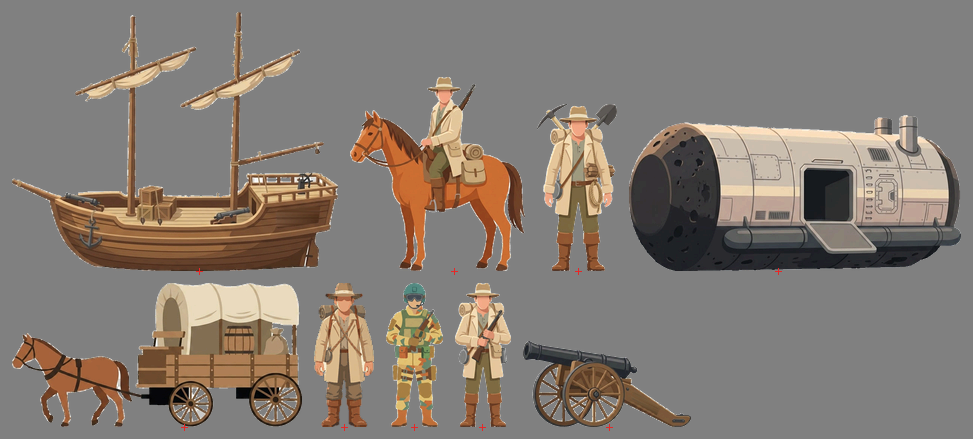
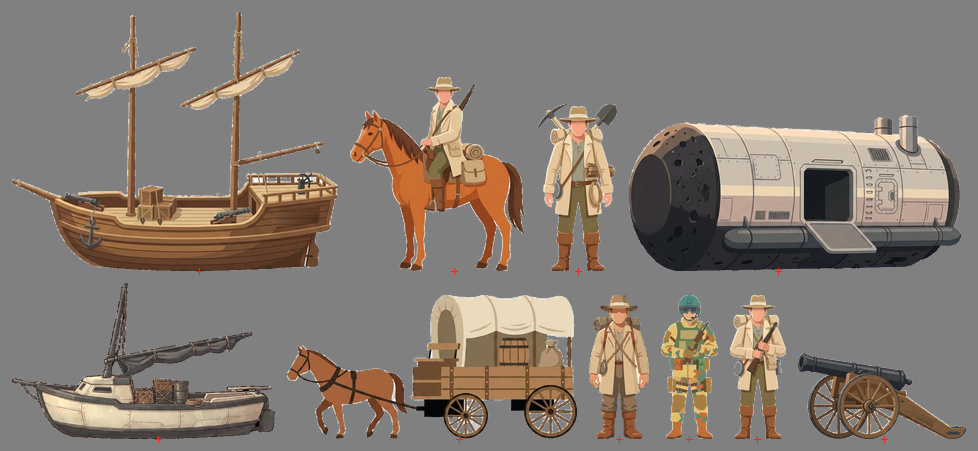
The lighter is the lander's boat, and a modern carpenter's shop
New drawings: the lighter built from the lander's panels, and the carpenter's shop in square cut
timber with a lander panel on its roof, drawn first in every settlement. The beached lander is wired
for and held back until a drawing on flat sand. A GrabCut keyer for boards colour cannot key, and both
sheets stored as indexed pngs, 64 and 81 kB. DECISIONS.md 201.

Claude-Session: https://claude.ai/code/session_01UnwF8UyZDWb3Ujp9A9GwjM

diff --git a/src/render/sprites.ts b/src/render/sprites.ts
@@ -52,14 +52,19 @@ export function pieceCount(pop: number): number {
 
 const INDUSTRY = ['carpenter', 'smelter', 'toolworks', 'armoury', 'linenWorks', 'ropeWorks', 'dyeWorks', 'still', 'finishing'] as const
 
-/** Which buildings a settlement shows, in the order they matter, from what it holds: a dwelling
- *  always, the hall where there is one, the frame of whatever is being built, and then the barn,
+/** Which buildings a settlement shows, in the order they matter, from what it holds: the beached
+ *  lander where one founded it, the carpenter's shop, a dwelling always, the hall where there is one, the frame of whatever is being built, and then the barn,
  *  the steading and the yard for what the place is for. A large place lives in a longhouse rather
  *  than a cabin. Only the first few of these are drawn; see pieceCount. */
-export function piecesFor(st: Settlement, pop: number): string[] {
+export function piecesFor(st: Settlement, pop: number, landing = false): string[] {
   const b = st.buildings
   const out: string[] = []
   const want = (name: string) => { if (!out.includes(name) && SETTLEMENT_ATLAS.pieces[name]) out.push(name) }
+  // where a lander beached and founded the place, the lander first: the first metal in the colony
+  // is the thing that brought you (setting brief section 7, DECISIONS.md 201)
+  if (landing) want('lander-beached')
+  // the carpenter's shop every settlement begins with, then where people live
+  if (b.carpenter > 0) want('carpenter')
   want(pop >= SPRITE.longhouseAt ? 'longhouse' : 'lodge')
   if (b.meeting > 0 || b.press > 0 || b.school > 0) want('hall')
   if (st.building) want('frame')
@@ -67,7 +72,7 @@ export function piecesFor(st: Settlement, pop: number): string[] {
   if (b.stable > 0 || st.orders.purpose === 'horses') want('steading')
   if (INDUSTRY.some(line => b[line] > 0) || b.wharf > 0 || b.works > 0) want('yard')
   // and the rest of the kit, for a place that has outgrown what it holds
-  for (const name of ['barn', 'yard', 'steading', 'lodge', 'hall']) want(name)
+  for (const name of ['barn', 'yard', 'steading', 'lodge', 'hall', 'carpenter']) want(name)
   return out
 }
 
@@ -81,9 +86,10 @@ export function layOut(
   heightAt: (x: number, z: number) => number,
   onLand: (x: number, z: number) => boolean,
   sheet: number,
+  landing = false,
 ): Billboard[] {
   const n = pieceCount(pop)
-  const names = piecesFor(st, pop).slice(0, n)
+  const names = piecesFor(st, pop, landing).slice(0, n)
   const scale = sheetScale()
   const id = st.id
   // the lattice: four places around the middle, the far ones first so the hall stands behind. A

diff --git a/src/render/look.ts b/src/render/look.ts
@@ -433,7 +433,6 @@ export const UNIT_SPRITE = {
     siegeTrain: 'battery',
     damagedSiegeTrain: 'battery',
     damagedBattery: 'battery',
-    lighter: 'trader',
     raider: 'trader',
     cutter: 'trader',
     companyShip: 'trader',
@@ -444,14 +443,14 @@ export const UNIT_SPRITE = {
    *  manifest carries (personPx, how many pixels a person is in that piece), so a piece stored at
    *  a lower resolution still stands at its own size. The table itself, in people, is in
    *  scripts/extract-sprites.py where the pixels are made: person 1, outrider 1.35, hauler 1 and
-   *  about 2.4 long, battery 0.6, trader 3 to the masthead, lander 1.8. */
+   *  about 2.4 long, battery 0.6, trader 3 to the masthead, lander 1.8, lighter 1.8 to the masthead. */
   tileHeight: 0.52,
   /** For a sheet cut before manifests carried a person: how many pixels tall a person was. */
   referenceHeight: 144,
   /** What a kind that borrows another's drawing is drawn at, as a share of the drawing's own size.
    *  The smaller hulls borrow the trader's; the Company's horse borrows the regular's at full size
    *  and is told from it by its ring alone. */
-  scale: { lighter: 0.6, raider: 0.85, cutter: 0.95 } as Partial<Record<UnitKind, number>>,
+  scale: { raider: 0.85, cutter: 0.95 } as Partial<Record<UnitKind, number>>,
   /** What damage does to a drawing: darker, drained toward grey, and knocked a few degrees askew on
    *  the ground. Degrees, turned clockwise seen from above. */
   damaged: { darken: 0.72, desaturate: 0.55, tiltDeg: 7 },

diff --git a/src/render/settlement-atlas.ts b/src/render/settlement-atlas.ts
@@ -8,14 +8,15 @@ import type { AtlasManifest } from './billboards'
 
 export const SETTLEMENT_ATLAS: AtlasManifest = {
   texture: 'settlement-early.png',
-  size: [1024, 398],
+  size: [1024, 401],
   pieces: {
-    barn: { x: 4, y: 228, w: 219, h: 166, anchorX: 85.1, anchorY: 156.3 },
-    frame: { x: 227, y: 228, w: 220, h: 155, anchorX: 122.3, anchorY: 152.4 },
+    barn: { x: 227, y: 228, w: 219, h: 166, anchorX: 85.1, anchorY: 156.3 },
+    carpenter: { x: 402, y: 4, w: 248, h: 185, anchorX: 147.8, anchorY: 175.2 },
+    frame: { x: 450, y: 228, w: 220, h: 155, anchorX: 122.3, anchorY: 152.4 },
     hall: { x: 4, y: 4, w: 170, h: 220, anchorX: 63.3, anchorY: 213.8 },
     lodge: { x: 178, y: 4, w: 220, h: 195, anchorX: 134.4, anchorY: 175.1 },
-    longhouse: { x: 402, y: 4, w: 219, h: 175, anchorX: 109.3, anchorY: 172.3 },
-    steading: { x: 451, y: 228, w: 220, h: 155, anchorX: 83.0, anchorY: 139.4 },
-    yard: { x: 625, y: 4, w: 219, h: 169, anchorX: 83.0, anchorY: 159.3 },
+    longhouse: { x: 654, y: 4, w: 219, h: 175, anchorX: 109.3, anchorY: 172.3 },
+    steading: { x: 674, y: 228, w: 220, h: 155, anchorX: 83.0, anchorY: 139.4 },
+    yard: { x: 4, y: 228, w: 219, h: 169, anchorX: 83.0, anchorY: 159.3 },
   },
 }

diff --git a/src/ui/ring.ts b/src/ui/ring.ts
@@ -72,7 +72,7 @@ function keep(key: string, canvas: HTMLCanvasElement) {
  *  the props are laid again. */
 function pictureKey(app: App, s: GameState, st: Settlement, px: number): string {
   const pop = st.colonists.length
-  const pieces = piecesFor(st, pop).slice(0, pieceCount(pop)).join('+')
+  const pieces = piecesFor(st, pop, s.charters[st.owner]?.landing === st.tile).slice(0, pieceCount(pop)).join('+')
   const w = s.world.width, hh = s.world.height
   const seen = new Set<number>([st.tile])
   for (const n of neighbours8(w, hh, st.tile)) { seen.add(n); for (const m of neighbours8(w, hh, n)) seen.add(m) }

diff --git a/src/render/settlements.ts b/src/render/settlements.ts
@@ -130,7 +130,7 @@ export function buildSettlements(s: GameState, heightAt: (x: number, z: number) 
     // the banner below is the whole settlement, per art brief section 10
     const drawn = era === 0
     if (drawn) {
-      for (const place of layOut(st, pop, cx, cz, heightAt, onLand, sheet)) {
+      for (const place of layOut(st, pop, cx, cz, heightAt, onLand, sheet, s.charters[st.owner]?.landing === st.tile)) {
         place.tag = { kind: 'settlement', id: st.id }
         billboards.push(place)
         // one group per settlement: the buildings shade together, not one on top of another

diff --git a/src/ui/pictures.ts b/src/ui/pictures.ts
@@ -77,7 +77,7 @@ export function goodMark(g: GoodId | 'frame' | 'grievance', size: IconSize = 'in
  *  carries the difference. The palisade borrows the steading for its fence, and the works borrow the
  *  workshops they would grow from. */
 export const BUILDING_PICTURE: Record<BuildingLine, string> = {
-  carpenter: 'lodge',
+  carpenter: 'carpenter',
   smelter: 'yard', toolworks: 'yard', armoury: 'yard', finishing: 'yard',
   linenWorks: 'longhouse', ropeWorks: 'longhouse', dyeWorks: 'longhouse', still: 'longhouse',
   meeting: 'hall', press: 'hall', school: 'hall', agentOffice: 'hall',

diff --git a/scripts/extract-sprites.py b/scripts/extract-sprites.py
@@ -285,7 +285,8 @@ def cut(job):
     # does for a figure with a tool held over its head
     ref_top, ref_bottom = job.get('reference', (y0, y1))
     ref_px = max(1, ref_bottom - ref_top)
-    scale = job['people'] * PERSON_PX * job.get('resolution', 1.0) / ref_px
+    # a building is cut to a height in the settlement sheet's pixels rather than in people
+    scale = job['px'] / ref_px if 'px' in job else job['people'] * PERSON_PX * job.get('resolution', 1.0) / ref_px
     out_w, out_h = max(1, int(round((x1 - x0) * scale))), max(1, int(round((y1 - y0) * scale)))
 
     # the alpha, soft by under a pixel at the source, then both down together
@@ -310,12 +311,13 @@ def cut(job):
     final[..., :3] = (np.clip(rgb, 0, 255) // step * step + step // 2).astype(np.uint8)
     final[..., 3] = np.clip(small[..., 3], 0, 255).astype(np.uint8)
 
-    os.makedirs(OUT, exist_ok=True)
-    Image.fromarray(final).save(os.path.join(OUT, f'{name}.png'))
+    out_dir = job.get('out', OUT)
+    os.makedirs(out_dir, exist_ok=True)
+    Image.fromarray(final).save(os.path.join(out_dir, f'{name}.png'))
     entry = {
         'source': job['source'],
         'w': out_w, 'h': out_h,
-        'people': job['people'],
+        'people': job.get('people'),
         # how many pixels a standing person is in this piece: the sheet's person, less for a piece
         # stored at a lower resolution. The renderer sizes the piece from this, so a drawing that
         # stands taller than its subject, a figure with a pick over its head, stands taller on the map
@@ -360,7 +362,50 @@ UNITS = [
                  dict(rows=(615, 1024), dark=186.0, light=222.0, tint=(0, 5, 7), low=0.92, high=1.06, chroma=12)],
          smoke=True, resolution=0.6,
          waterline=640),
+    # the lighter, the boat the lander carried, built of the lander's own panels (DECISIONS.md 201).
+    # Drawn on a black and mid grey board that colour cannot key, so it is keyed first by
+    # scripts/key-board.py (lighter.jpg 3 137)
+    dict(name='lighter', source='lighter.png', people=1.8, facing='left', keyed=True,
+         resolution=0.6, waterline=712),
 ]
+
+# Buildings drawn one to a picture, cut to the early settlement sheet's scale (the cabin's wall is
+# seventy pixels, src/render/look.ts) and added to art/settlement-early.png by `buildings`. Each is
+# keyed first by scripts/key-board.py: carpenter.jpg 175 227.
+BUILDINGS_OUT = 'art/buildings'
+BUILDINGS = [
+    # the lander beached where it founded the first settlement, the first metal in the colony, is drawn
+    # for as 'lander-beached' (src/render/sprites.ts) and waits for a drawing on flat sand
+    # the carpenter's shop, square cut timber with a panel of the lander on its roof
+    dict(name='carpenter', source='../buildings/carpenter.png', px=185, out=BUILDINGS_OUT, keyed=True),
+]
+
+
+def add_buildings():
+    """Cut each building and lay it into art/settlement-early.png beside the seven drawn there, with
+    an entry in its manifest marked keyed, so scripts/clean-sprites.mjs leaves its pale panels alone."""
+    sheet = Image.open('art/settlement-early.png').convert('RGBA')
+    man = json.load(open('art/settlement-early.json'))
+    pieces = {k: v for k, v in man['pieces'].items() if not v.get('keyed')}
+    cut_pieces = []
+    for job in BUILDINGS:
+        cut(job)
+        cut_pieces.append((job['name'], Image.open(os.path.join(BUILDINGS_OUT, f"{job['name']}.png")).convert('RGBA')))
+    # the drawn sheet is kept as it was; the new pieces go in a row beneath it
+    base_h = max(v['y'] + v['h'] for v in pieces.values()) + 4
+    W = max(sheet.width, sum(im.width + 4 for _, im in cut_pieces) + 4)
+    H = base_h + max(im.height for _, im in cut_pieces) + 4
+    out = Image.new('RGBA', (W, H), (0, 0, 0, 0))
+    out.paste(sheet.crop((0, 0, sheet.width, base_h)), (0, 0))
+    x = 2
+    for name, im in cut_pieces:
+        out.paste(im, (x, base_h))
+        pieces[name] = {'x': x, 'y': base_h, 'w': im.width, 'h': im.height, 'keyed': True}
+        x += im.width + 4
+    out.save('art/settlement-early.png')
+    man['pieces'] = pieces
+    json.dump(man, open('art/settlement-early.json', 'w'), indent=1)
+    print(f'art/settlement-early.png: {W}x{H}, {len(pieces)} pieces')
 
 # The first era buildings came off their own board with an earlier form of this script, and the
 # committed art/settlement-early.png and .json are what the sheet was cut to by hand after it. This
@@ -419,6 +464,9 @@ if __name__ == '__main__':
     wanted = sys.argv[1:]
     if wanted == ['settlement']:
         cut_settlement(SETTLEMENT)
+        sys.exit(0)
+    if wanted == ['buildings']:
+        add_buildings()
         sys.exit(0)
     path = os.path.join(OUT, 'manifest.json')
     manifest = json.load(open(path)) if os.path.exists(path) else {}

diff --git a/scripts/key-board.py b/scripts/key-board.py
@@ -1,0 +1,93 @@
+#!/usr/bin/env python3
+# Keys a drawing off the checkerboard it was generated on, for the boards scripts/extract-sprites.py
+# cannot key by colour alone: two greys far apart (black and mid grey), squares not on one grid, and
+# a drawing with dark outlines and grey trim that a colour range would take with the board.
+#
+# The board's own squares reached from the picture's edge are the background for certain, and the
+# soft seams between squares a few pixels from them; anything with colour is the drawing for
+# certain; GrabCut decides the rest. Then what is left of the board is taken off: board coloured
+# pixels along the edge, peeled a pixel at a time, and board the drawing encloses (between a mast
+# and its ropes), found as a patch where both of the board's greys lie close together and nothing
+# has colour. Writes an rgba png the same size as the source, which the extraction job then takes
+# as already keyed.
+#
+# Run with:  python3 scripts/key-board.py SOURCE.jpg OUT.png DARK LIGHT
+#            DARK and LIGHT are the board's two greys, read off its corner squares.
+# Needs numpy, scipy and opencv (cv2).
+
+import sys
+
+import cv2
+import numpy as np
+from scipy import ndimage
+
+
+def key(path, greys, out):
+    a = cv2.imread(path).astype(np.float32)
+    lum = a.mean(axis=2)
+    chroma = a.max(axis=2) - a.min(axis=2)
+    neutral = chroma < 10
+    core = np.zeros(lum.shape, bool)
+    for g in greys:
+        core |= neutral & (np.abs(lum - g) < 12)
+    between = neutral & (lum >= min(greys) - 12) & (lum <= max(greys) + 12)
+    lbl, _ = ndimage.label(core)
+    edge = np.zeros_like(core)
+    edge[0, :] = edge[-1, :] = edge[:, 0] = edge[:, -1] = True
+    bg = np.isin(lbl, list(set(np.unique(lbl[edge & core])) - {0}))
+    for _ in range(4):
+        bg |= ndimage.binary_dilation(bg) & between
+    mask = np.full(lum.shape, cv2.GC_PR_FGD, np.uint8)
+    mask[bg] = cv2.GC_BGD
+    mask[between & ~bg] = cv2.GC_PR_BGD
+    mask[chroma > 25] = cv2.GC_FGD
+    cv2.grabCut(a.astype(np.uint8), mask, None, np.zeros((1, 65)), np.zeros((1, 65)), 6, cv2.GC_INIT_WITH_MASK)
+    fg = (mask == cv2.GC_FGD) | (mask == cv2.GC_PR_FGD)
+    # board along the edge, peeled off
+    boardish = np.zeros(lum.shape, bool)
+    for g in greys:
+        boardish |= (chroma < 16) & (np.abs(lum - g) < 26)
+    for _ in range(16):
+        touching = ndimage.binary_dilation(~fg) & fg & boardish
+        if not touching.any():
+            break
+        fg &= ~touching
+    # board the drawing encloses
+    n16 = chroma < 16
+    near = [n16 & (np.abs(lum - g) < 26) for g in greys]
+    fd = [ndimage.uniform_filter(m.astype(np.float32), 11) for m in near]
+    fn = ndimage.uniform_filter(n16.astype(np.float32), 11)
+    texture = ndimage.binary_dilation((fd[0] > 0.08) & (fd[1] > 0.08) & (fn > 0.75), iterations=3)
+    fg &= ~(texture & (near[0] | near[1]))
+    # and what is left in strips too narrow for that, between ropes: small patches of either grey,
+    # flat and colourless, each followed by any of the other grey it touches
+    flat = chroma < 10
+    for _ in range(3):
+        for g in greys:
+            square = fg & flat & (np.abs(lum - g) < 14)
+            sl, sn = ndimage.label(square)
+            if not sn:
+                continue
+            ss = ndimage.sum(square, sl, range(1, sn + 1))
+            small = np.isin(sl, [i + 1 for i in range(sn) if ss[i] < 1500])
+            # a patch counts as board only where it lies against background already taken
+            touched = ndimage.binary_dilation(~fg, iterations=2)
+            keep_ids = set(np.unique(sl[small & touched])) - {0}
+            fg &= ~np.isin(sl, list(keep_ids))
+    fg = ndimage.binary_opening(fg, np.ones((3, 3)))
+    lbl, n = ndimage.label(fg)
+    sizes = ndimage.sum(fg, lbl, range(1, n + 1))
+    fg = np.isin(lbl, [i + 1 for i in range(n) if sizes[i] > 4000])
+    holes = ndimage.binary_fill_holes(fg) & ~fg
+    hl, hn = ndimage.label(holes)
+    hs = ndimage.sum(holes, hl, range(1, hn + 1))
+    fg |= np.isin(hl, [i + 1 for i in range(hn) if hs[i] < 300])
+    alpha = ndimage.gaussian_filter(fg.astype(np.float32), 0.7) * 255
+    rgba = np.dstack([a, alpha]).clip(0, 255).astype(np.uint8)
+    cv2.imwrite(out, rgba)
+
+
+if __name__ == '__main__':
+    src, out, dark, light = sys.argv[1], sys.argv[2], float(sys.argv[3]), float(sys.argv[4])
+    key(src, [dark, light], out)
+    print(f'{out} keyed from {src}')

diff --git a/scripts/index-sheet.py b/scripts/index-sheet.py
@@ -1,0 +1,12 @@
+#!/usr/bin/env python3
+# Stores a packed sheet as an indexed png of 255 colours with their alpha, which is how the first
+# settlement sheet shipped (88 colours, 137 kB). The drawings are flat colour, and at the size they are
+# seen a palette is not told from the full colour sheet, which is three to four times the weight.
+# Run after scripts/clean-sprites.mjs:  python3 scripts/index-sheet.py public/textures/settlement-early.png
+import sys
+from PIL import Image
+
+for path in sys.argv[1:]:
+    im = Image.open(path).convert('RGBA')
+    im.quantize(255, method=Image.Quantize.FASTOCTREE, dither=Image.Dither.NONE).save(path, optimize=True)
+    print(path, 'indexed')

diff --git a/DECISIONS.md b/DECISIONS.md
@@ -3597,6 +3597,35 @@ From playing the first turns on a phone, 22 November 2026.
   anything near home is unseen, and the unit's sheet has it. The lighter's card says it is the boat
   the lander carried. The explorer-done card is for those on foot.
 
+### 201. The lighter is the lander's boat, and the carpenter's shop is modern timber
+
+**What.** Two new drawings, generated with Gemini on 22 November 2026 from prompts that attached the
+lander and the old pieces as references.
+
+- **The lighter** has its own piece: a small workboat built of the lander's cream panels, with a
+  cabin and a short folding mast, 1.8 people to the masthead, where it borrowed the wooden trader
+  at six tenths. The setting brief, section 7, says the lighter is the boat the lander carried; a
+  wooden ship appearing from nowhere said otherwise.
+- **The carpenter's shop** is square cut sawn timber, a shallow single pitch roof, large regular
+  windows and one of the lander's panels as the roof edge: "modern in design, pre-industrial in
+  material" (setting brief section 6), where the log cabin drawings read as a heritage village. It
+  is the carpenter's picture in the town street and the build catalogue, and every settlement, which
+  begins with one, now draws it first. It is the trial of the restyle; the other six drawings stay
+  until it has been seen in play.
+- **The beached lander** was drawn too, and is held back: it stands on a sand bank cut off square at
+  its left, which reads as a block on the map. `piecesFor` already puts a `lander-beached` piece first
+  at a settlement founded where its charter's lander came down, and draws nothing until the sheet has
+  one.
+- **Keying.** The new drawings came on boards the colour keyer could not take (a black and mid grey
+  board under a boat with dark grey trim, and boards not on one grid). `scripts/key-board.py` keys
+  them first with GrabCut, seeded by the board reached from the edge and by everything with colour,
+  then peels board off the edge and out of the strips between ropes. The extractor then takes the
+  result as already keyed, and a building is cut to the settlement sheet's scale (`px`).
+- **Weight.** Both sheets are now stored as indexed pngs of 255 colours (`scripts/index-sheet.py`),
+  as the first settlement sheet shipped: the settlement sheet goes from 137 to 64 kB with the new
+  piece, the units sheet from 243 to 81 kB. Side by side at the sheet's own pixels the two cannot be
+  told apart.
+
 ## Left out of version one
 
 - Rival diplomacy offers (`C.flags.rivalDiplomacyOffers: false`).
